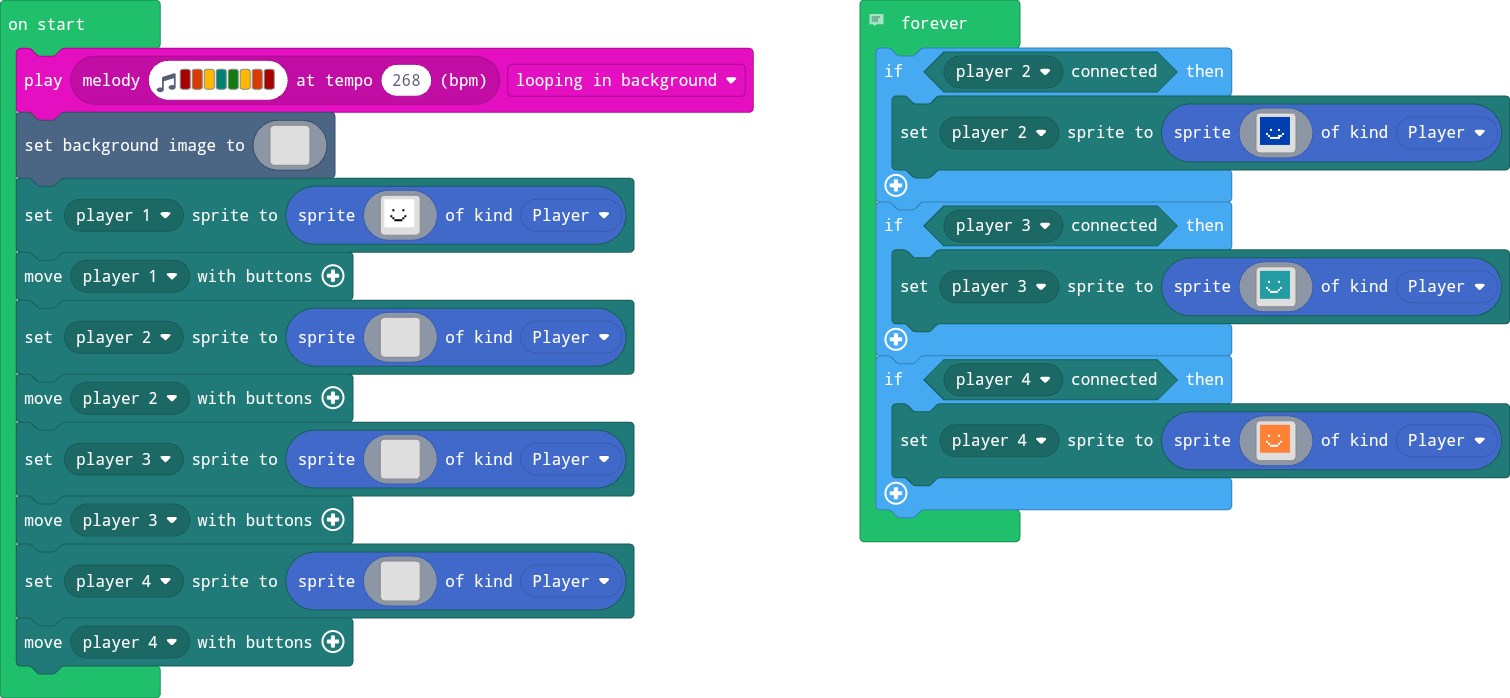
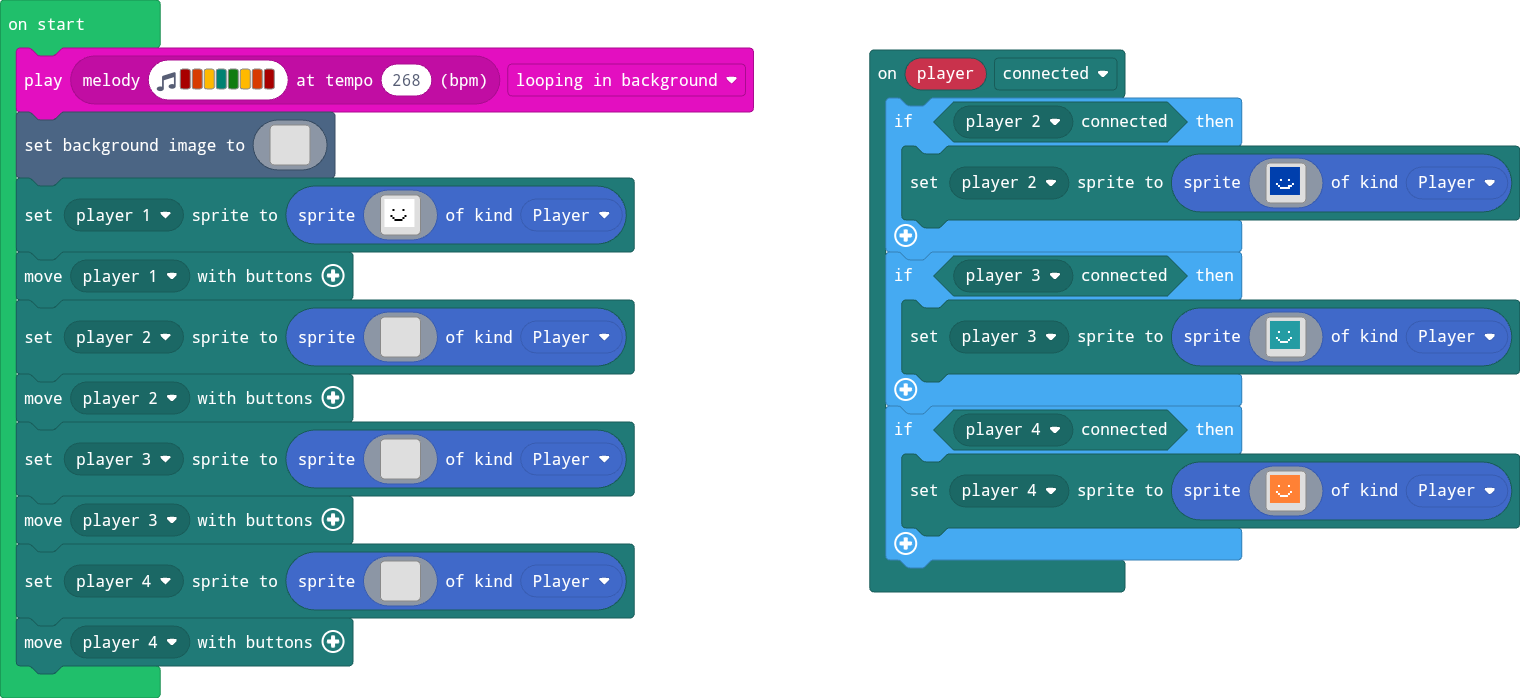
Fixed a bug with... BY MULTIPLYING PLAYERS!

diff --git a/main.ts b/main.ts
@@ -1,6 +1,34 @@
 namespace SpriteKind {
     export const Ball = SpriteKind.create()
 }
+mp.onControllerEvent(ControllerEvent.Connected, function (player2) {
+    if (mp.isConnected(mp.playerSelector(mp.PlayerNumber.Two))) {
+        mp.setPlayerSprite(mp.playerSelector(mp.PlayerNumber.Two), sprites.create(img`
+            8 8 8 8 8 8 8 8 8 8 8 8 8 8 8 . 
+            8 8 8 8 8 8 8 8 8 8 8 8 8 8 8 . 
+            8 8 8 8 8 8 8 8 8 8 8 8 8 8 8 . 
+            8 8 8 8 8 8 8 8 8 8 8 8 8 8 8 . 
+            8 8 8 8 8 8 8 8 8 8 8 8 8 8 8 . 
+            8 8 8 8 8 8 8 8 8 8 8 8 8 8 8 . 
+            8 8 8 8 8 1 8 8 8 1 8 8 8 8 8 . 
+            8 8 8 8 8 8 8 8 8 8 8 8 8 8 8 . 
+            8 8 8 1 8 8 8 8 8 8 8 1 8 8 8 . 
+            8 8 8 8 1 8 8 8 8 1 1 8 8 8 8 . 
+            8 8 8 8 8 1 1 1 1 1 8 8 8 8 8 . 
+            8 8 8 8 8 8 8 8 8 8 8 8 8 8 8 . 
+            8 8 8 8 8 8 8 8 8 8 8 8 8 8 8 . 
+            8 8 8 8 8 8 8 8 8 8 8 8 8 8 8 . 
+            . . . . . . . . . . . . . . . . 
+            . . . . . . . . . . . . . . . . 
+            `, SpriteKind.Player))
+    }
+    if (mp.isConnected(mp.playerSelector(mp.PlayerNumber.Three))) {
+        mp.setPlayerSprite(mp.playerSelector(mp.PlayerNumber.Three), sprites.create(assets.image`Player 3`, SpriteKind.Player))
+    }
+    if (mp.isConnected(mp.playerSelector(mp.PlayerNumber.Four))) {
+        mp.setPlayerSprite(mp.playerSelector(mp.PlayerNumber.Four), sprites.create(assets.image`Player 4`, SpriteKind.Player))
+    }
+})
 music.play(music.stringPlayable("C5 B A F G A B C5 ", 268), music.PlaybackMode.LoopingInBackground)
 scene.setBackgroundImage(img`
     . . . . . . . . . . . . . . . . 
@@ -79,32 +107,3 @@ mp.setPlayerSprite(mp.playerSelector(mp.PlayerNumber.Four), sprites.create(img`
     . . . . . . . . . . . . . . . . 
     `, SpriteKind.Player))
 mp.moveWithButtons(mp.playerSelector(mp.PlayerNumber.Four))
-// Responsible for the appearance of other players
-forever(function () {
-    if (mp.isConnected(mp.playerSelector(mp.PlayerNumber.Two))) {
-        mp.setPlayerSprite(mp.playerSelector(mp.PlayerNumber.Two), sprites.create(img`
-            8 8 8 8 8 8 8 8 8 8 8 8 8 8 8 . 
-            8 8 8 8 8 8 8 8 8 8 8 8 8 8 8 . 
-            8 8 8 8 8 8 8 8 8 8 8 8 8 8 8 . 
-            8 8 8 8 8 8 8 8 8 8 8 8 8 8 8 . 
-            8 8 8 8 8 8 8 8 8 8 8 8 8 8 8 . 
-            8 8 8 8 8 8 8 8 8 8 8 8 8 8 8 . 
-            8 8 8 8 8 1 8 8 8 1 8 8 8 8 8 . 
-            8 8 8 8 8 8 8 8 8 8 8 8 8 8 8 . 
-            8 8 8 1 8 8 8 8 8 8 8 1 8 8 8 . 
-            8 8 8 8 1 8 8 8 8 1 1 8 8 8 8 . 
-            8 8 8 8 8 1 1 1 1 1 8 8 8 8 8 . 
-            8 8 8 8 8 8 8 8 8 8 8 8 8 8 8 . 
-            8 8 8 8 8 8 8 8 8 8 8 8 8 8 8 . 
-            8 8 8 8 8 8 8 8 8 8 8 8 8 8 8 . 
-            . . . . . . . . . . . . . . . . 
-            . . . . . . . . . . . . . . . . 
-            `, SpriteKind.Player))
-    }
-    if (mp.isConnected(mp.playerSelector(mp.PlayerNumber.Three))) {
-        mp.setPlayerSprite(mp.playerSelector(mp.PlayerNumber.Three), sprites.create(assets.image`Player 3`, SpriteKind.Player))
-    }
-    if (mp.isConnected(mp.playerSelector(mp.PlayerNumber.Four))) {
-        mp.setPlayerSprite(mp.playerSelector(mp.PlayerNumber.Four), sprites.create(assets.image`Player 4`, SpriteKind.Player))
-    }
-})
